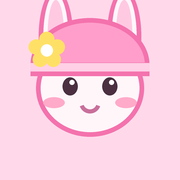
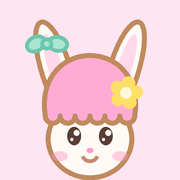
ももちゃんの見た目調整

diff --git a/ohana-atsume/index.html b/ohana-atsume/index.html
@@ -205,82 +205,100 @@
     g.rotate(wob * 0.35);
     g.scale(s / 100, s / 100);                // 100x100 基準で描く
 
-    const PINK = "#ff9ecb", PINK_D = "#f472ad", CREAM = "#fff6fa";
+    // やわらかい 茶色の りんかく線で ぜんたいを まとめる
+    const LINE = "#c08a5e", PINK = "#ffabd4", PINK_L = "#ffd9ea", CREAM = "#fffaf6",
+          MINT = "#a9e5d2", MINT_D = "#6ec6ab";
+    g.lineJoin = "round"; g.lineCap = "round";
 
     // --- からだ（うしろ） ---
-    g.fillStyle = CREAM; g.strokeStyle = PINK_D; g.lineWidth = 3;
-    g.beginPath(); g.ellipse(0, 30, 27, 24, 0, 0, Math.PI * 2); g.fill(); g.stroke();
+    g.fillStyle = CREAM; g.strokeStyle = LINE; g.lineWidth = 3;
+    g.beginPath(); g.ellipse(0, 31, 25, 22, 0, 0, Math.PI * 2); g.fill(); g.stroke();
 
-    // --- みみ（ずきんの中から） ---
+    // --- みみ（ずきんから ぴょこんと でている） ---
     for (const dir of [-1, 1]) {
       g.save();
-      g.translate(dir * 17, -28);
-      g.rotate(dir * (0.32 + Math.sin(t / 300 + dir) * 0.06));
-      g.fillStyle = CREAM; g.strokeStyle = PINK_D; g.lineWidth = 3;
-      g.beginPath(); g.ellipse(0, -26, 9.5, 30, 0, 0, Math.PI * 2); g.fill(); g.stroke();
-      g.fillStyle = "#ffc9e2";
-      g.beginPath(); g.ellipse(0, -26, 4.5, 22, 0, 0, Math.PI * 2); g.fill();
+      g.translate(dir * 15, -26);
+      g.rotate(dir * (0.30 + Math.sin(t / 300 + dir) * 0.06));
+      g.fillStyle = CREAM; g.strokeStyle = LINE; g.lineWidth = 3;
+      g.beginPath(); g.ellipse(0, -30, 10, 34, 0, 0, Math.PI * 2); g.fill(); g.stroke();
+      g.fillStyle = PINK_L;
+      g.beginPath(); g.ellipse(0, -30, 5, 25, 0, 0, Math.PI * 2); g.fill();
       g.restore();
     }
 
-    // --- かお ---
-    g.fillStyle = CREAM; g.strokeStyle = PINK_D; g.lineWidth = 3;
-    g.beginPath(); g.ellipse(0, -8, 28, 25, 0, 0, Math.PI * 2); g.fill(); g.stroke();
+    // --- かお（まるく） ---
+    g.fillStyle = CREAM; g.strokeStyle = LINE; g.lineWidth = 3;
+    g.beginPath(); g.ellipse(0, -6, 29, 27, 0, 0, Math.PI * 2); g.fill(); g.stroke();
 
-    // --- ずきん（フード） ---
-    g.fillStyle = PINK; g.strokeStyle = PINK_D; g.lineWidth = 3;
+    // --- ずきん（ふちが なみなみ） ---
+    g.fillStyle = PINK; g.strokeStyle = LINE; g.lineWidth = 3;
     g.beginPath();
-    g.moveTo(-30, -6);
-    g.bezierCurveTo(-34, -34, -18, -46, 0, -46);
-    g.bezierCurveTo(18, -46, 34, -34, 30, -6);
-    g.bezierCurveTo(20, -16, -20, -16, -30, -6);
+    g.moveTo(-31, -22);
+    g.bezierCurveTo(-35, -48, -19, -64, 0, -64);
+    g.bezierCurveTo(19, -64, 35, -48, 31, -22);
+    const N = 6, sw = 62 / N, sr = sw / 2;
+    for (let i = 0; i < N; i++) g.arc(31 - i * sw - sr, -22, sr, 0, Math.PI, false);
     g.closePath(); g.fill(); g.stroke();
-    // ずきんのふち
-    g.fillStyle = "#ffd0e6";
-    g.beginPath();
-    g.moveTo(-30, -6); g.bezierCurveTo(-20, -16, 20, -16, 30, -6);
-    g.bezierCurveTo(20, -9, -20, -9, -30, -6);
-    g.closePath(); g.fill();
 
-    // --- ほっぺの おはな かざり ---
-    g.save(); g.translate(-24, -20); g.rotate(-0.3); g.scale(0.42, 0.42);
-    drawFlower(g, 0, 0, "#ffe066", "#fff");
+    // --- ずきんの おはな かざり（みぎがわ） ---
+    g.save(); g.translate(25, -38); g.rotate(0.25); g.scale(0.5, 0.5);
+    drawFlower(g, 0, 0, "#ffe066", "#fff8dc");
     g.restore();
 
-    // --- め ---
-    const blink = (t % 4200 < 150) ? 0.12 : 1;
-    g.fillStyle = "#4a3040";
-    for (const dx of [-10, 10]) {
-      g.save(); g.translate(dx, -10); g.scale(1, blink);
-      g.beginPath(); g.ellipse(0, 0, 3.6, 5.2, 0, 0, Math.PI * 2); g.fill();
+    // --- ひだり みみ の リボン ---
+    drawBow(g, -30, -72, 8, MINT, MINT_D);
+
+    // --- め（おおきく まるく） ---
+    const blink = (t % 4200 < 150) ? 0.10 : 1;
+    for (const dx of [-11, 11]) {
+      g.save(); g.translate(dx, -8); g.scale(1, blink);
+      g.fillStyle = "#5a3d33";
+      g.beginPath(); g.ellipse(0, 0, 4.8, 6.4, 0, 0, Math.PI * 2); g.fill();
+      if (blink > 0.5) {
+        g.fillStyle = "#fff";
+        g.beginPath(); g.arc(1.7, -2.2, 2.1, 0, Math.PI * 2); g.fill();
+        g.beginPath(); g.arc(-1.6, 2.4, 1.1, 0, Math.PI * 2); g.fill();
+      }
       g.restore();
-      if (blink > 0.5) { g.fillStyle = "#fff"; g.beginPath(); g.arc(dx + 1.3, -12, 1.5, 0, Math.PI * 2); g.fill(); g.fillStyle = "#4a3040"; }
     }
     // ほっぺ
-    g.fillStyle = "rgba(255,150,190,0.55)";
-    g.beginPath(); g.ellipse(-18, -2, 5.5, 3.6, 0, 0, Math.PI * 2); g.fill();
-    g.beginPath(); g.ellipse(18, -2, 5.5, 3.6, 0, 0, Math.PI * 2); g.fill();
+    g.fillStyle = "rgba(255,150,190,0.45)";
+    g.beginPath(); g.ellipse(-21, 6, 5.5, 3.5, 0, 0, Math.PI * 2); g.fill();
+    g.beginPath(); g.ellipse(21, 6, 5.5, 3.5, 0, 0, Math.PI * 2); g.fill();
+    // はな
+    g.fillStyle = "#ff9ec2";
+    g.beginPath(); g.ellipse(0, 2, 2.4, 1.8, 0, 0, Math.PI * 2); g.fill();
     // くち
-    g.strokeStyle = "#c96f9b"; g.lineWidth = 2; g.lineCap = "round";
+    g.strokeStyle = "#c98a6e"; g.lineWidth = 2;
     g.beginPath();
-    if (happy) { g.arc(0, -1, 5, 0.15 * Math.PI, 0.85 * Math.PI); }
-    else { g.moveTo(-3.5, 0); g.quadraticCurveTo(0, 3, 3.5, 0); }
+    if (happy) { g.arc(0, 4, 5.5, 0.12 * Math.PI, 0.88 * Math.PI); }
+    else { g.moveTo(-4, 5); g.quadraticCurveTo(0, 8, 4, 5); }
     g.stroke();
 
     // --- かご（バスケット） ---
-    g.fillStyle = "#e8a866"; g.strokeStyle = "#b9793f"; g.lineWidth = 3;
+    g.fillStyle = "#f0bd82"; g.strokeStyle = LINE; g.lineWidth = 3;
     g.beginPath();
     g.moveTo(-26, 22); g.lineTo(26, 22); g.lineTo(20, 48); g.lineTo(-20, 48);
     g.closePath(); g.fill(); g.stroke();
-    g.strokeStyle = "rgba(185,121,63,.6)"; g.lineWidth = 1.6;
+    g.strokeStyle = "rgba(192,138,94,.55)"; g.lineWidth = 1.6;
     for (let i = 1; i < 4; i++) { const y = 22 + i * 6.5; g.beginPath(); g.moveTo(-26 + i * 1.5, y); g.lineTo(26 - i * 1.5, y); g.stroke(); }
     // かごの もちて
-    g.strokeStyle = "#b9793f"; g.lineWidth = 3.5;
+    g.strokeStyle = LINE; g.lineWidth = 3.5;
     g.beginPath(); g.arc(0, 22, 18, Math.PI, 0); g.stroke();
     // ふち
-    g.fillStyle = "#f3c489"; g.strokeStyle = "#b9793f"; g.lineWidth = 2.5;
+    g.fillStyle = "#ffd7a8"; g.strokeStyle = LINE; g.lineWidth = 2.5;
     g.beginPath(); g.roundRect(-29, 17, 58, 8, 4); g.fill(); g.stroke();
 
+    g.restore();
+  }
+
+  // リボン
+  function drawBow(g, x, y, r, color, line) {
+    g.save(); g.translate(x, y); g.rotate(-0.18);
+    g.fillStyle = color; g.strokeStyle = line; g.lineWidth = 2.4;
+    g.beginPath(); g.ellipse(-r * 0.95, 0, r * 0.82, r * 0.6, -0.34, 0, Math.PI * 2); g.fill(); g.stroke();
+    g.beginPath(); g.ellipse(r * 0.95, 0, r * 0.82, r * 0.6, 0.34, 0, Math.PI * 2); g.fill(); g.stroke();
+    g.beginPath(); g.arc(0, 0, r * 0.4, 0, Math.PI * 2); g.fill(); g.stroke();
     g.restore();
   }
 
@@ -604,7 +622,7 @@
   const hc = document.getElementById("heroCanvas").getContext("2d");
   (function heroLoop(t) {
     hc.clearRect(0, 0, 300, 300);
-    drawBunny(hc, 150, 168, 190, t, true);
+    drawBunny(hc, 150, 176, 172, t, true);
     requestAnimationFrame(heroLoop);
   })(0);
 

diff --git a/index.html b/index.html
@@ -111,41 +111,64 @@
 
   /* ============ マスコット（ももちゃん） ============ */
   const mc = document.getElementById("mascot").getContext("2d");
+  function drawBow(g, x, y, r, color, line) {
+    g.save(); g.translate(x, y); g.rotate(-0.18);
+    g.fillStyle = color; g.strokeStyle = line; g.lineWidth = 2.4;
+    g.beginPath(); g.ellipse(-r * 0.95, 0, r * 0.82, r * 0.6, -0.34, 0, Math.PI * 2); g.fill(); g.stroke();
+    g.beginPath(); g.ellipse(r * 0.95, 0, r * 0.82, r * 0.6, 0.34, 0, Math.PI * 2); g.fill(); g.stroke();
+    g.beginPath(); g.arc(0, 0, r * 0.4, 0, Math.PI * 2); g.fill(); g.stroke();
+    g.restore();
+  }
   function drawMomo(g, cx, cy, s, t) {
     g.save(); g.translate(cx, cy); g.rotate(Math.sin(t / 500) * 0.06); g.scale(s / 100, s / 100);
-    const PINK = "#ff9ecb", PINK_D = "#f472ad", CREAM = "#fff6fa";
+    const LINE = "#c08a5e", PINK = "#ffabd4", PINK_L = "#ffd9ea", CREAM = "#fffaf6",
+          MINT = "#a9e5d2", MINT_D = "#6ec6ab";
+    g.lineJoin = "round"; g.lineCap = "round";
     [-1, 1].forEach(dir => {
-      g.save(); g.translate(dir * 17, -22); g.rotate(dir * (0.3 + Math.sin(t / 420 + dir) * 0.07));
-      g.fillStyle = CREAM; g.strokeStyle = PINK_D; g.lineWidth = 3;
-      g.beginPath(); g.ellipse(0, -26, 9.5, 30, 0, 0, Math.PI * 2); g.fill(); g.stroke();
-      g.fillStyle = "#ffc9e2"; g.beginPath(); g.ellipse(0, -26, 4.5, 22, 0, 0, Math.PI * 2); g.fill();
+      g.save(); g.translate(dir * 15, -20); g.rotate(dir * (0.30 + Math.sin(t / 420 + dir) * 0.07));
+      g.fillStyle = CREAM; g.strokeStyle = LINE; g.lineWidth = 3;
+      g.beginPath(); g.ellipse(0, -30, 10, 34, 0, 0, Math.PI * 2); g.fill(); g.stroke();
+      g.fillStyle = PINK_L; g.beginPath(); g.ellipse(0, -30, 5, 25, 0, 0, Math.PI * 2); g.fill();
       g.restore();
     });
-    g.fillStyle = CREAM; g.strokeStyle = PINK_D; g.lineWidth = 3;
-    g.beginPath(); g.ellipse(0, 0, 28, 25, 0, 0, Math.PI * 2); g.fill(); g.stroke();
-    g.fillStyle = PINK; g.strokeStyle = PINK_D;
-    g.beginPath(); g.moveTo(-30, 2); g.bezierCurveTo(-34, -26, -18, -38, 0, -38);
-    g.bezierCurveTo(18, -38, 34, -26, 30, 2); g.bezierCurveTo(20, -8, -20, -8, -30, 2);
+    g.fillStyle = CREAM; g.strokeStyle = LINE; g.lineWidth = 3;
+    g.beginPath(); g.ellipse(0, 0, 29, 27, 0, 0, Math.PI * 2); g.fill(); g.stroke();
+    g.fillStyle = PINK; g.strokeStyle = LINE;
+    g.beginPath(); g.moveTo(-31, -16); g.bezierCurveTo(-35, -42, -19, -58, 0, -58);
+    g.bezierCurveTo(19, -58, 35, -42, 31, -16);
+    const N = 6, sw = 62 / N, sr = sw / 2;
+    for (let i = 0; i < N; i++) g.arc(31 - i * sw - sr, -16, sr, 0, Math.PI, false);
     g.closePath(); g.fill(); g.stroke();
-    g.fillStyle = "#ffd0e6"; g.beginPath(); g.moveTo(-30, 2);
-    g.bezierCurveTo(-20, -8, 20, -8, 30, 2); g.bezierCurveTo(20, -1, -20, -1, -30, 2);
-    g.closePath(); g.fill();
-    const blink = (t % 4200 < 150) ? 0.12 : 1;
-    [-10, 10].forEach(dx => {
-      g.fillStyle = "#4a3040"; g.save(); g.translate(dx, -2); g.scale(1, blink);
-      g.beginPath(); g.ellipse(0, 0, 3.6, 5.2, 0, 0, Math.PI * 2); g.fill(); g.restore();
-      if (blink > 0.5) { g.fillStyle = "#fff"; g.beginPath(); g.arc(dx + 1.3, -4, 1.5, 0, Math.PI * 2); g.fill(); }
+    g.save(); g.translate(25, -32); g.rotate(0.25); g.scale(0.5, 0.5);
+    (function (gg) {
+      gg.fillStyle = "#ffe066";
+      for (let i = 0; i < 5; i++) { gg.save(); gg.rotate((i / 5) * Math.PI * 2); gg.beginPath(); gg.ellipse(0, -7, 4.6, 7, 0, 0, Math.PI * 2); gg.fill(); gg.restore(); }
+      gg.fillStyle = "#fff8dc"; gg.beginPath(); gg.arc(0, 0, 4, 0, Math.PI * 2); gg.fill();
+    })(g);
+    g.restore();
+    drawBow(g, -30, -66, 8, MINT, MINT_D);
+    const blink = (t % 4200 < 150) ? 0.10 : 1;
+    [-11, 11].forEach(dx => {
+      g.save(); g.translate(dx, -2); g.scale(1, blink);
+      g.fillStyle = "#5a3d33"; g.beginPath(); g.ellipse(0, 0, 4.8, 6.4, 0, 0, Math.PI * 2); g.fill();
+      if (blink > 0.5) {
+        g.fillStyle = "#fff";
+        g.beginPath(); g.arc(1.7, -2.2, 2.1, 0, Math.PI * 2); g.fill();
+        g.beginPath(); g.arc(-1.6, 2.4, 1.1, 0, Math.PI * 2); g.fill();
+      }
+      g.restore();
     });
-    g.fillStyle = "rgba(255,150,190,.55)";
-    g.beginPath(); g.ellipse(-18, 6, 5.5, 3.6, 0, 0, Math.PI * 2); g.fill();
-    g.beginPath(); g.ellipse(18, 6, 5.5, 3.6, 0, 0, Math.PI * 2); g.fill();
-    g.strokeStyle = "#c96f9b"; g.lineWidth = 2; g.lineCap = "round";
-    g.beginPath(); g.arc(0, 7, 5, 0.15 * Math.PI, 0.85 * Math.PI); g.stroke();
+    g.fillStyle = "rgba(255,150,190,.45)";
+    g.beginPath(); g.ellipse(-21, 12, 5.5, 3.5, 0, 0, Math.PI * 2); g.fill();
+    g.beginPath(); g.ellipse(21, 12, 5.5, 3.5, 0, 0, Math.PI * 2); g.fill();
+    g.fillStyle = "#ff9ec2"; g.beginPath(); g.ellipse(0, 8, 2.4, 1.8, 0, 0, Math.PI * 2); g.fill();
+    g.strokeStyle = "#c98a6e"; g.lineWidth = 2;
+    g.beginPath(); g.arc(0, 10, 5.5, 0.12 * Math.PI, 0.88 * Math.PI); g.stroke();
     g.restore();
   }
   (function mascotLoop(t) {
     mc.clearRect(0, 0, 240, 240);
-    drawMomo(mc, 120, 140, 170, t);
+    drawMomo(mc, 120, 160, 150, t);
     requestAnimationFrame(mascotLoop);
   })(0);
 
